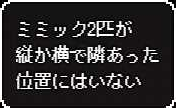
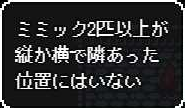
吹き出し認識はできた

diff --git a/js/index.js b/js/index.js
@@ -1,5 +1,5 @@
 // Generated by CoffeeScript 2.3.1
-var ImageFile, ImageFileMimicLogic, changeCond2, checkMimic, clear, compareIndexes, cond2cond1, condId2Text, debug, downDementionStat, genPattern, getCellNum, getColorIndexes, getColorNearIndexes, getConfirmTypes, getLineIndexes, getMimicIndexes, getMimicNearIndexes, getNearIndexes, getNumCommodity, getNumEquip, getNumMad, getNumMimicMax, getNumMimicMin, getNumMoney, getPatternMad, getTd, getValidPatterns, getX, getY, init, initImage, isContainColorNearMimic, isContainType, isContainTypeCount, isItemDetail, isMimicNearly, isNotContainType, isValidPattern, judge, mustConsiderType, onPasteImage, parseImage, putCanvas, reset, statValidPatterns, viewDetail, viewTitle;
+var ImageFile, ImageFileMimicLogic, changeCond2, checkMimic, clear, compareIndexes, cond2cond1, condId2Text, debug, downDementionStat, genPattern, getCellNum, getColorIndexes, getColorNearIndexes, getConfirmTypes, getLineIndexes, getMimicIndexes, getMimicNearIndexes, getNearIndexes, getNumCommodity, getNumEquip, getNumMad, getNumMimicMax, getNumMimicMin, getNumMoney, getPatternMad, getTd, getValidPatterns, getX, getY, init, initImage, isContainColorNearMimic, isContainType, isContainTypeCount, isItemDetail, isMimicNearly, isNotContainType, isValidPattern, judge, mustConsiderType, onPasteImage, parseImage, parseImageDebug, putCanvas, reset, statValidPatterns, viewDetail, viewTitle;
 
 debug = function() {
   var color, colors, cond, conds, index, j, l, len, len1, len2, o, results1;
@@ -41,6 +41,72 @@ putCanvas = function(w, h) {
   [canvas.width, canvas.height] = [w, h];
   debug_image_paste.appendChild(canvas);
   return [canvas, canvas.getContext('2d')];
+};
+
+parseImageDebug = function(base64) {
+  var callback, img;
+  img = new ImageFileMimicLogic(base64);
+  callback = function() {
+    var canvas, classes, condIndex, ctx, h, html, imageFile, index, j, l, leftups, len, matchRates, obj, rate, ref, ref1, targetImageFile, tb, tr, w, x, y;
+    if (!img.isLoaded()) {
+      setTimeout(callback, 1000);
+      return;
+    }
+    leftups = img.getLeftUpPoint();
+    console.log(leftups);
+    for (j = 0, len = leftups.length; j < len; j++) {
+      [x, y, w, h] = leftups[j];
+      [canvas, ctx] = putCanvas(w, h);
+      ctx.drawImage(img.canvas, x, y, w, h, 0, 0, w, h);
+      imageFile = new ImageFileMimicLogic(canvas, ImageFileMimicLogic.MODE.IMAGE);
+      $('#debug_image_paste').append($('<img>').attr('src', imageFile.getBase64BinarizeCond()));
+      matchRates = [];
+      ref = window.COND2IMAGE_FILE;
+      for (condIndex in ref) {
+        targetImageFile = ref[condIndex];
+        if (targetImageFile === null) {
+          continue;
+        }
+        matchRates.push([condIndex, imageFile.getMatchRate(targetImageFile)]);
+      }
+      matchRates.sort(function(a, b) {
+        return b[1] - a[1];
+      });
+      //console.log 'matchRates:', matchRates
+      html = '<table class="table table-bordered">';
+      for (index = l = 0; l < 5; index = ++l) {
+        [condIndex, rate] = matchRates[index];
+        classes = [];
+        if (rate > 0.995 && index === 0) {
+          classes.push('confirm');
+        }
+        html += '<tr class="' + classes.join(' ') + '">';
+        html += '<th>' + condId2Text(condIndex) + '</th>';
+        html += '<td>' + condIndex + '</td>';
+        html += '<td class="right">' + rate + '</td>';
+        if (window.COND2IMAGE_FILE[condIndex]) {
+          html += '<td><img src="' + window.COND2IMAGE_FILE[condIndex].getBase64BinarizeCond() + '"></td>';
+        }
+        html += '</tr>';
+      }
+      $('#debug_image_paste').append($('<p>').html(html));
+    }
+    // ないやつを出す
+    $('#debug_image_paste').append($('<h2>').html('まだないやつ'));
+    tb = $('<table>');
+    ref1 = window.COND2IMAGE_FILE;
+    for (index in ref1) {
+      obj = ref1[index];
+      if (obj === null) {
+        tr = $('<tr>');
+        tr.append($('<td>').html(index));
+        tr.append($('<td>').html(condId2Text(index)));
+        tb.append(tr);
+      }
+    }
+    return $('#debug_image_paste').append(tb);
+  };
+  return setTimeout(callback, 1000);
 };
 
 ImageFile = (function() {
@@ -201,6 +267,32 @@ ImageFileMimicLogic = class ImageFileMimicLogic extends ImageFile {
     return score / (imageFileMimicLogic.getWidth() * imageFileMimicLogic.getHeight());
   }
 
+  getBase64Binarize(binary) {
+    var canvas, ctx, j, l, ref, ref1, x, y;
+    canvas = document.createElement('canvas');
+    ctx = canvas.getContext('2d');
+    [canvas.width, canvas.height] = [this.getWidth(), this.getHeight()];
+    ctx.fillStyle = '#aaaaaa';
+    ctx.fillRect(0, 0, this.getWidth(), this.getHeight());
+    ctx.fillStyle = '#000000';
+    for (x = j = 0, ref = binary.length; (0 <= ref ? j < ref : j > ref); x = 0 <= ref ? ++j : --j) {
+      for (y = l = 0, ref1 = binary[x].length; (0 <= ref1 ? l < ref1 : l > ref1); y = 0 <= ref1 ? ++l : --l) {
+        if (binary[x][y]) {
+          ctx.fillRect(x, y, 1, 1);
+        }
+      }
+    }
+    return canvas.toDataURL();
+  }
+
+  getBase64BinarizeBorder() {
+    return this.getBase64Binarize(this.getMyBinarizeBorder());
+  }
+
+  getBase64BinarizeCond() {
+    return this.getBase64Binarize(this.getMyBinarizeCond());
+  }
+
   // 枠線を探す2値化をキャッシュ
   getMyBinarizeBorder() {
     if (this.myBinarizeBorder == null) {
@@ -228,13 +320,13 @@ ImageFileMimicLogic = class ImageFileMimicLogic extends ImageFile {
         {
           // 白文字
           r: {
-            min: 150
+            min: 75
           },
           g: {
-            min: 150
+            min: 75
           },
           b: {
-            min: 150
+            min: 75
           }
         },
         {
@@ -252,10 +344,10 @@ ImageFileMimicLogic = class ImageFileMimicLogic extends ImageFile {
         {
           // 青文字
           r: {
-            max: 150
+            max: 100
           },
           g: {
-            max: 150
+            max: 200
           },
           b: {
             min: 90
@@ -383,9 +475,9 @@ window.CONDS = {
   'Zzz...': {
     0: 'Zzz...'
   },
-  'ミミック2匹が縦か横で隣あった位置には': {
+  'ミミック2匹以上が縦か横で隣あった位置に': {
     1100: 'いる',
-    1110: 'いない'
+    1110: 'はいない'
   },
   '上の宝箱は': {
     710: 'ミミックだ',
@@ -671,7 +763,7 @@ initImage = function() {
         condText = val[condIndex];
         image = new Image();
         image.onload = onload.bind(image, condIndex, image);
-        image.onerror = onload.bind(image, condIndex);
+        image.onerror = onerror.bind(image, condIndex);
         results2.push(image.src = './image/conds/' + condIndex + '.png');
       }
       return results2;
@@ -709,58 +801,14 @@ onPasteImage = function(e) {
   fr.onload = function(e) {
     var base64;
     base64 = e.target.result;
-    return window.parseImage(base64);
+    //window.parseImage base64
+    return window.parseImageDebug(base64);
   };
   fr.readAsDataURL(imageFile);
   return true;
 };
 
-parseImage = function(base64) {
-  var callback, img;
-  img = new ImageFileMimicLogic(base64);
-  callback = function() {
-    var canvas, classes, condIndex, ctx, h, html, imageFile, index, j, l, leftups, len, matchRates, rate, ref, results1, targetImageFile, w, x, y;
-    if (!img.isLoaded()) {
-      setTimeout(callback, 1000);
-      return;
-    }
-    leftups = img.getLeftUpPoint();
-    console.log(leftups);
-    results1 = [];
-    for (j = 0, len = leftups.length; j < len; j++) {
-      [x, y, w, h] = leftups[j];
-      [canvas, ctx] = putCanvas(w, h);
-      ctx.drawImage(img.canvas, x, y, w, h, 0, 0, w, h);
-      imageFile = new ImageFileMimicLogic(canvas, ImageFileMimicLogic.MODE.IMAGE);
-      matchRates = [];
-      ref = window.COND2IMAGE_FILE;
-      for (condIndex in ref) {
-        targetImageFile = ref[condIndex];
-        matchRates.push([condIndex, imageFile.getMatchRate(targetImageFile)]);
-      }
-      matchRates.sort(function(a, b) {
-        return b[1] - a[1];
-      });
-      //console.log 'matchRates:', matchRates
-      html = '<table class="table table-bordered">';
-      for (index = l = 0; l < 5; index = ++l) {
-        [condIndex, rate] = matchRates[index];
-        classes = [];
-        if (rate > 0.98 && index === 0) {
-          classes.push('confirm');
-        }
-        html += '<tr class="' + classes.join(' ') + '">';
-        html += '<th>' + condId2Text(condIndex) + '</th>';
-        html += '<td>' + condIndex + '</td>';
-        html += '<td class="right">' + rate + '</td>';
-        html += '</tr>';
-      }
-      results1.push($('#debug_image_paste').append($('<p>').html(html)));
-    }
-    return results1;
-  };
-  return setTimeout(callback, 1000);
-};
+parseImage = function(base64) {};
 
 cond2cond1 = function(cond) {
   var cond1, cond2japanese, id, obj, ref;
